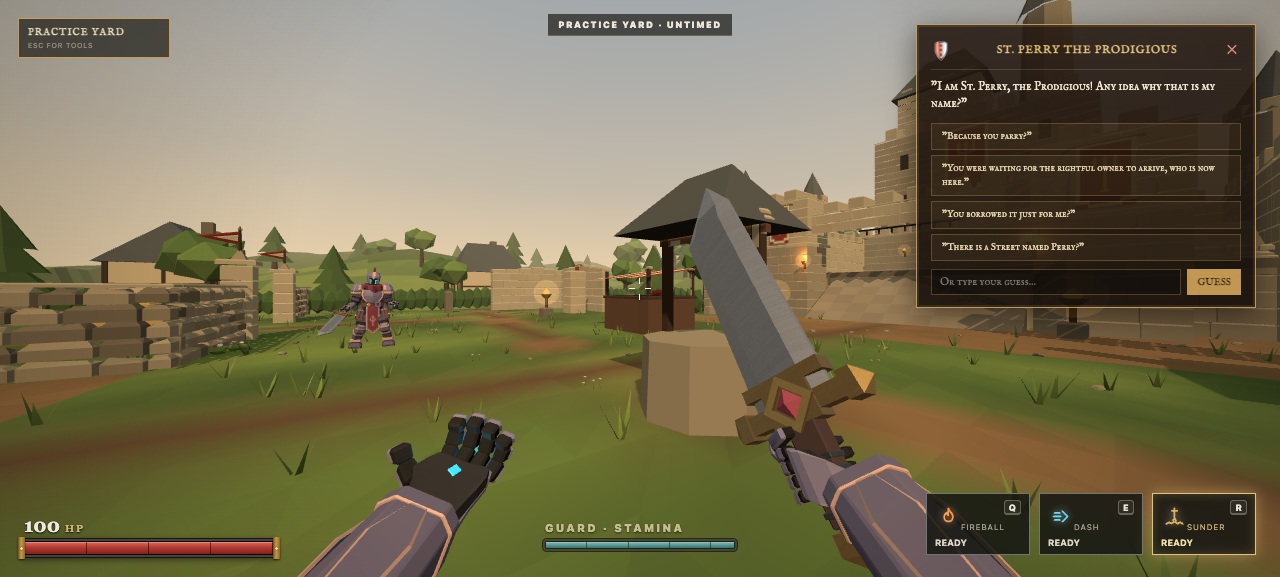
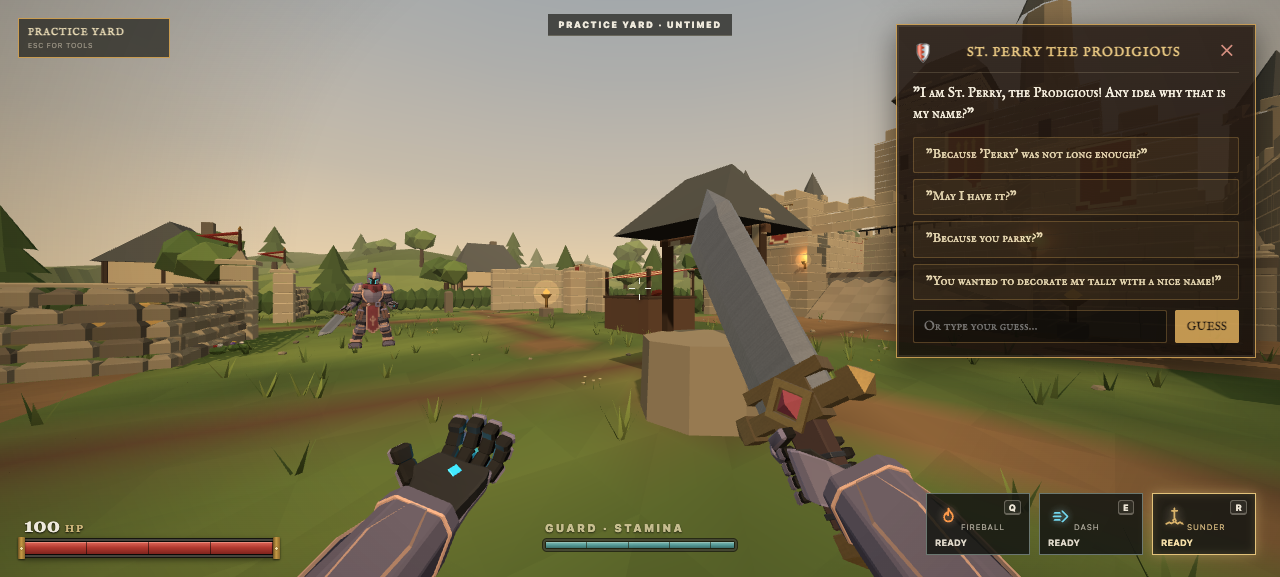
fix(st-perry): scoped shuffle architecture, multiplayer dialogue isolation & readability

Changed region(s): [[0.6875, 0.0312, 1.0, 0.6551], [0.6562, 0.8111, 0.6875, 0.8423], [0.5938, 0.7487, 0.625, 0.7799]]

diff --git a/client/styles.css b/client/styles.css
@@ -255,17 +255,17 @@ body.took-steel::after{content:"";position:fixed;inset:0;z-index:50;pointer-even
   top: 24px;
   right: 24px;
   z-index: 30;
-  width: 340px;
-  max-width: min(360px, calc(100vw - 48px));
+  width: 360px;
+  max-width: min(380px, calc(100vw - 48px));
   pointer-events: auto;
 }
-.perry-dialogue.hidden { display: none; }
+.perry-dialogue.hidden { display: none !important; }
 .hud.pointer-locked .perry-dialogue { opacity: 0.92; pointer-events: none; }
 .perry-dialogue-card {
   background: linear-gradient(180deg, rgba(38, 26, 18, 0.96), rgba(20, 14, 10, 0.96));
   border: 1px solid #c99c52;
   box-shadow: inset 0 0 0 2px rgba(234, 220, 182, 0.1), 0 8px 30px rgba(0, 0, 0, 0.55);
-  padding: 12px 14px;
+  padding: 14px 16px;
   color: #eadcb6;
   font-family: var(--font-inscription, Georgia, serif);
 }
@@ -274,11 +274,12 @@ body.took-steel::after{content:"";position:fixed;inset:0;z-index:50;pointer-even
   align-items: center;
   justify-content: space-between;
   border-bottom: 1px solid rgba(215, 199, 160, 0.2);
-  padding-bottom: 6px;
-  margin-bottom: 8px;
+  padding-bottom: 7px;
+  margin-bottom: 10px;
 }
 .perry-dialogue-name {
-  font-size: 11px;
+  font-size: 13px;
+  font-weight: 700;
   letter-spacing: 0.08em;
   color: #ecc97f;
 }
@@ -286,36 +287,44 @@ body.took-steel::after{content:"";position:fixed;inset:0;z-index:50;pointer-even
   background: transparent;
   border: none;
   color: #d58b7d;
-  font-size: 13px;
+  font-size: 16px;
+  line-height: 1;
   cursor: pointer;
-  padding: 0 4px;
+  padding: 2px 6px;
 }
 .perry-dialogue-close:hover { color: #ffc9b6; }
 .perry-dialogue-body p {
-  font-size: 12px;
-  line-height: 1.45;
-  margin: 0 0 10px 0;
-  color: #f7eed8;
+  font-size: 14px;
+  line-height: 1.5;
+  margin: 0 0 12px 0;
+  color: #fbf5e6;
 }
 .perry-dialogue-options {
   display: flex;
   flex-direction: column;
-  gap: 5px;
-  margin-bottom: 8px;
+  gap: 6px;
+  margin-bottom: 10px;
+}
+.perry-dialogue-options[hidden],
+.perry-dialogue-form[hidden],
+.perry-dialogue-options.hidden,
+.perry-dialogue-form.hidden {
+  display: none !important;
 }
 .perry-option-btn {
   background: rgba(201, 156, 82, 0.08);
   border: 1px solid rgba(201, 156, 82, 0.32);
   color: #eadcb6;
-  padding: 6px 10px;
-  font-size: 10px;
+  padding: 8px 12px;
+  font-size: 13px;
   font-family: inherit;
   text-align: left;
   cursor: pointer;
   white-space: normal;
-  line-height: 1.35;
+  line-height: 1.4;
   overflow-wrap: break-word;
   word-break: normal;
+  border-radius: 2px;
   transition: background 0.15s, border-color 0.15s;
 }
 .perry-option-btn:hover {
@@ -324,33 +333,35 @@ body.took-steel::after{content:"";position:fixed;inset:0;z-index:50;pointer-even
   color: #ffffff;
 }
 .perry-option-btn:disabled {
-  opacity: 0.6;
+  opacity: 0.55;
   cursor: not-allowed;
 }
 .perry-dialogue-form {
   display: flex;
-  gap: 6px;
+  gap: 8px;
 }
 .perry-dialogue-form input {
   flex: 1;
   background: rgba(10, 8, 6, 0.75);
   border: 1px solid rgba(201, 156, 82, 0.35);
   color: #fff;
-  padding: 5px 8px;
-  font-size: 11px;
+  padding: 7px 10px;
+  font-size: 13px;
+  border-radius: 2px;
 }
 .perry-dialogue-form button {
   background: #c99c52;
   border: none;
   color: #1a120b;
   font-weight: 800;
-  font-size: 10px;
-  padding: 5px 10px;
+  font-size: 12px;
+  padding: 7px 12px;
   cursor: pointer;
+  border-radius: 2px;
 }
 .perry-canonization-prompt {
-  margin-top: 10px;
-  padding-top: 8px;
+  margin-top: 12px;
+  padding-top: 10px;
   border-top: 1px solid rgba(236, 201, 127, 0.3);
   text-align: center;
 }
@@ -359,12 +370,12 @@ body.took-steel::after{content:"";position:fixed;inset:0;z-index:50;pointer-even
   border: 1px solid #ffd885;
   color: #1b1207;
   font-weight: 900;
-  font-size: 11px;
+  font-size: 13px;
   letter-spacing: 0.08em;
-  padding: 8px 14px;
+  padding: 10px 16px;
   cursor: pointer;
   width: 100%;
-  margin-top: 6px;
+  margin-top: 8px;
   box-shadow: 0 0 12px rgba(236, 201, 127, 0.35);
 }
 .perry-canonize-btn:hover {
